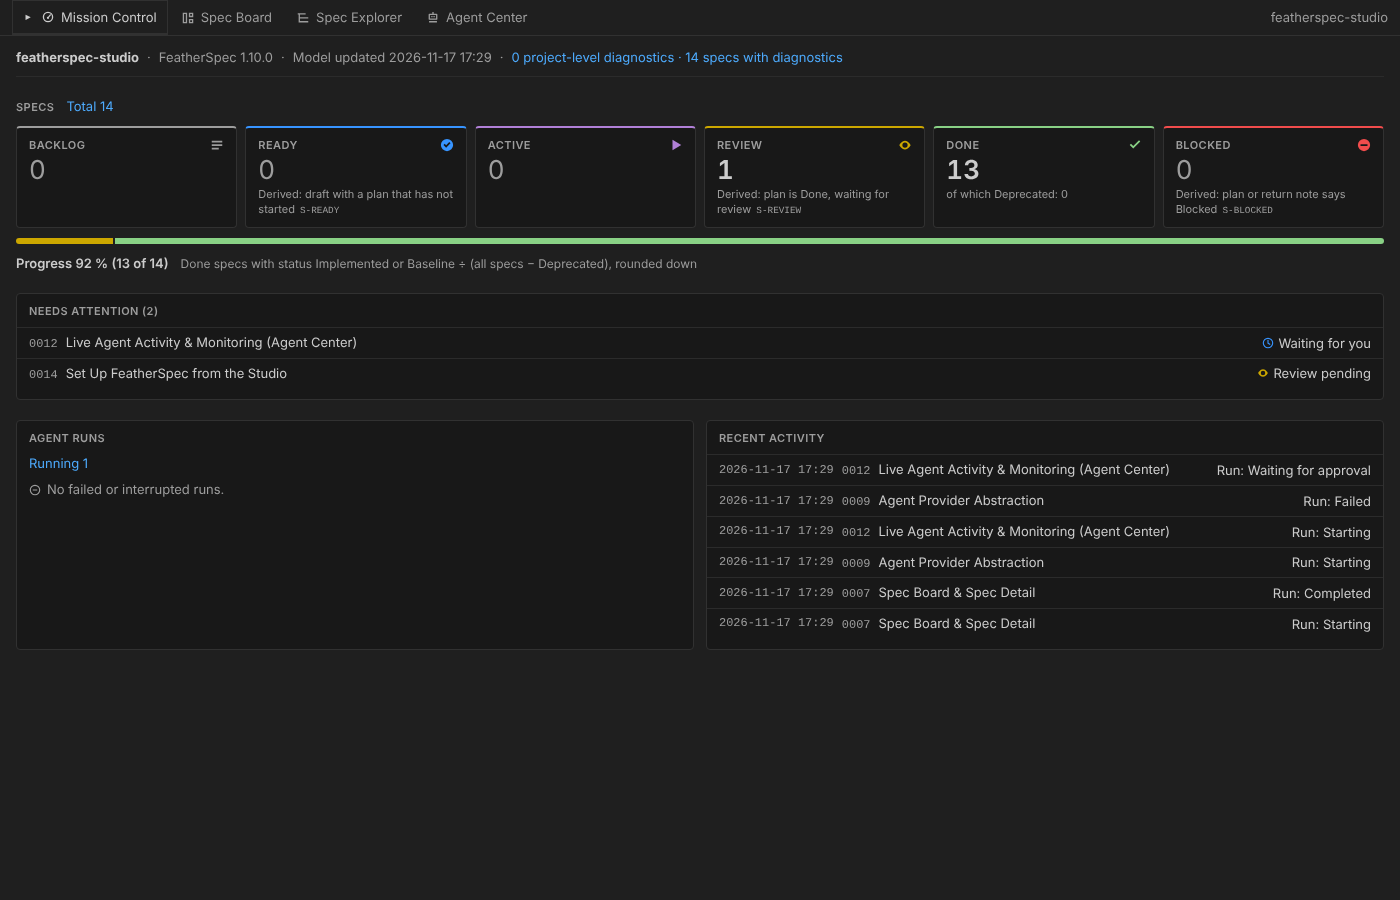
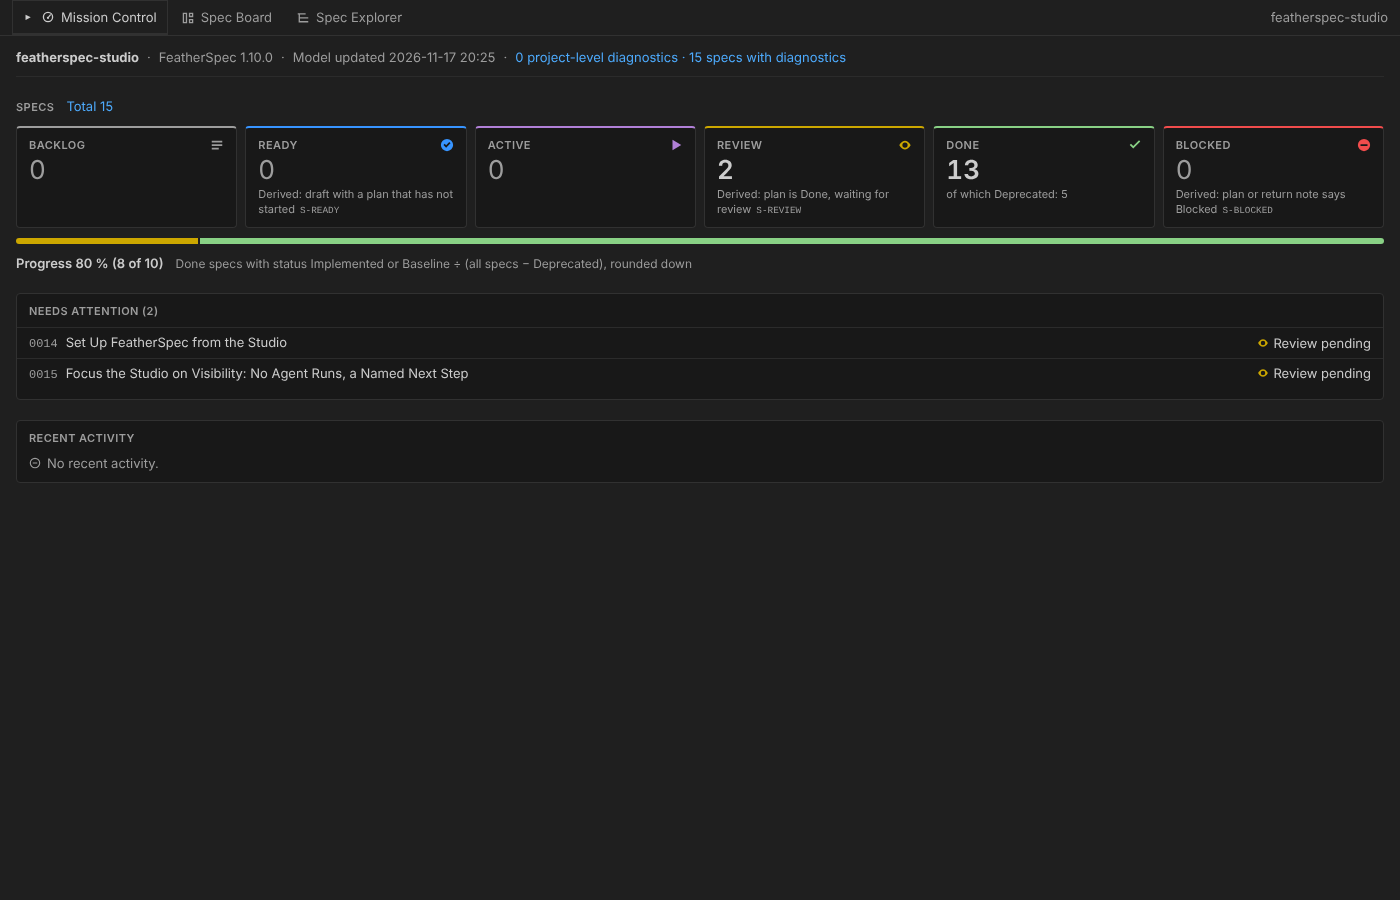
docs(0015): README screenshots with three areas and the next step
Claude-Session: https://claude.ai/code/session_01Gjx4ug55tnrs2YJYnrBwo6

diff --git a/README.md b/README.md
@@ -22,7 +22,7 @@ Every spec as a card in six columns: Backlog, Ready, Active, Review, Done and Bl
 
 ### Spec Explorer
 
-![Spec Explorer with the detail of a spec](media/screenshots/spec-explorer-detail-light.png)
+![Spec Explorer with the detail of a spec and its next step](media/screenshots/spec-explorer-detail-light.png)
 
 The spec list beside the detail of the selected spec. Above its sections the detail shows **Next step**: the FeatherSpec command that moves this spec on, for example `/sdd-plan .specs/backlog/0007-example.md`. **Copy** puts that line on your clipboard; paste it into your assistant's chat. A second line ("Then: …") names the step after it. The sections are overview, requirements, acceptance criteria, plan and tasks, verification, related artifacts and status history. Every section folds from its heading and offers "Open file", which opens the spec, plan or return note in the editor. The selection survives switching areas, closing the panel and reloading the window.
 
